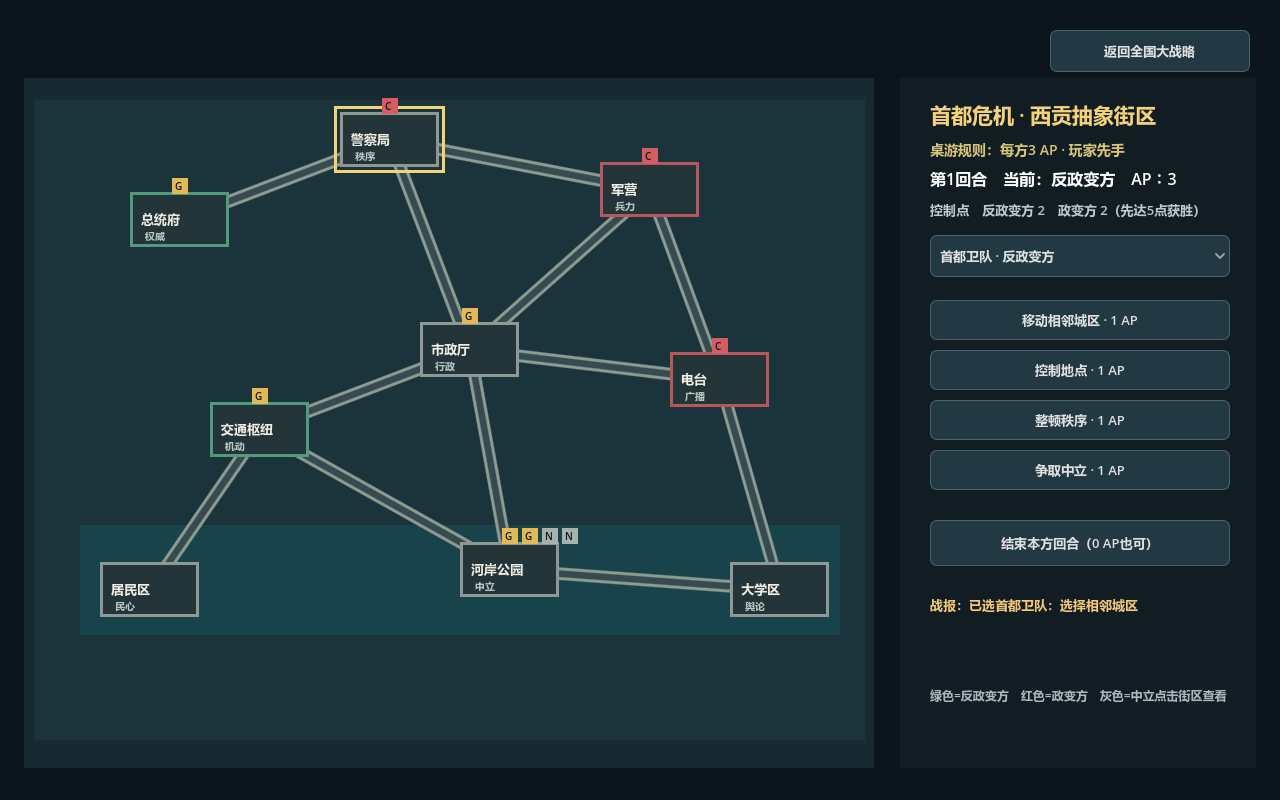
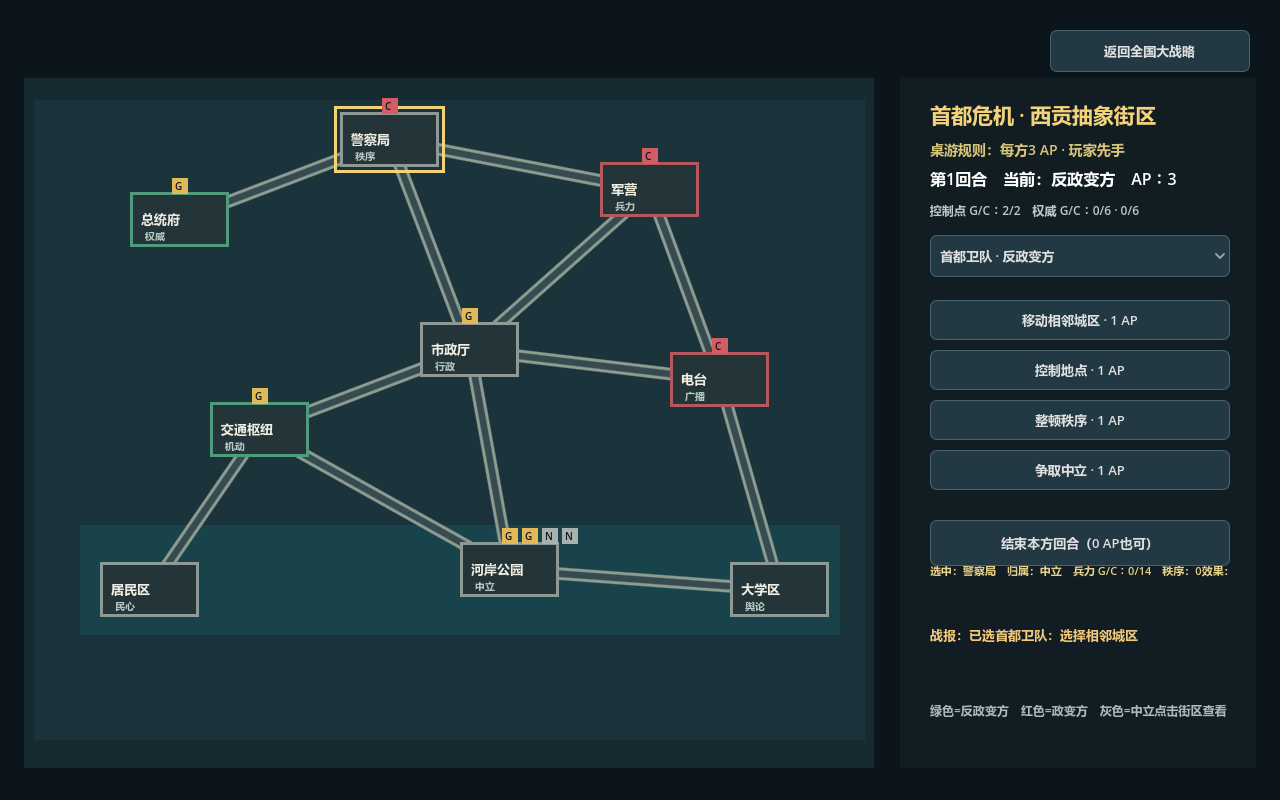
Harden capital crisis state and combat rules

diff --git a/docs/VERIFICATION.md b/docs/VERIFICATION.md
@@ -4,7 +4,7 @@
 
 运行检查：`..\GodotPortable_4.7.2\Godot_v4.7.2-stable_win64_console.exe --headless --path . --quit-after 2` 完成且无 `ERROR` 或 `SCRIPT ERROR`。治理测试：`--headless --path . --script res://tools/test_governance.gd` 输出 `governance-tests: PASS`；覆盖710地区、17°N分类、统一行动成本、快捷键与按钮、谈判冷却、三类事件双分支、资源不足保留待决、28天自动事件、跨周推进、军方底线倒台、20周成功、结束锁定和重新开始、选区 UI 更新。日期测试：`--headless --path . --script res://tools/test_simulation.gd` 输出 `simulation-tests: PASS`。
 
-治理迭代：完整加载 710 个地区；右侧 Control 面板显式显示预算、政治资本、三派支持、稳定度、选区详情、行动成本、反馈和事件选项。地图使用实际 `Control.clip_contents` 裁剪视口，填色模式由阵营、民心、叛乱驱动，源环采用安全的渲染填充路径避免三角化错误。稳定度由三派支持与南方地区民心/治安/叛乱指标共同计算。政变页可进入独立的“首都危机”城市回合，城市使用9个原创抽象街区、道路/河道和三处控制点，不宣称历史战术精确；城市页采用每方3 AP、邻接移动、地点控制/整顿/争取中立和 AI 回合。
+治理迭代：完整加载 710 个地区；右侧 Control 面板显式显示预算、政治资本、三派支持、稳定度、选区详情、行动成本、反馈和事件选项。地图使用实际 `Control.clip_contents` 裁剪视口，填色模式由阵营、民心、叛乱驱动，源环采用安全的渲染填充路径避免三角化错误。稳定度由三派支持与南方地区民心/治安/叛乱指标共同计算。政变页可进入独立的“首都危机”城市回合，城市使用9个原创抽象街区、道路/河道和三处控制点，不宣称历史战术精确；城市页采用每方3 AP、邻接移动、地点控制/整顿/争取中立和 AI 回合。城市实例活动期间，全国时间、周结算和全国军令全部锁定，返回查看不会解锁。
 
 交互实现：左键仅在 `MAP_RECT` 内处理，并使用 `Geometry2D.is_point_in_polygon` 命中实际轮廓环；地图外/侧栏不会改变选择。滚轮缩放和中键拖动共享同一坐标变换，因此命中逻辑随缩放拖动保持一致。暂停或事件待决时 `_process` 不推进；运行时按天循环，严格在第7天周结算和第28天触发事件，结束后快捷键与按钮保持无效并提供重新开始。
 
@@ -14,11 +14,11 @@
 
 来源与许可限制：`vietnam-provinces-game.json` 是工作区既有文件，本阶段仅追溯到本地文件，未能从文件元数据确认其上游来源或许可证。因此项目不宣称这些轮廓可独立再分发；只把它们作为本地原型输入，并保留来源不确定性。
 
-导出：`powershell -ExecutionPolicy Bypass -File tools\build_windows.ps1` 生成 `builds\VietnamWar1965-governance.exe`（最新 115,000,320 bytes）；本地 builds 另保留用户原有的8月 `VietnamWar1965.exe` 和 `VietnamWar1965.console.exe`。
+导出：`powershell -ExecutionPolicy Bypass -File tools\build_windows.ps1` 生成 `builds\VietnamWar1965-governance.exe`（首都危机版最新导出）；本地 builds 另保留用户原有的8月 `VietnamWar1965.exe` 和 `VietnamWar1965.console.exe`。
 
 性能验证：`--headless --path . --script res://tools/test_performance.gd` 在完整 710 地区上实测 `geometry_rebuild_ms=278.72`（主动重建成本）、缓存绘制命令 CPU 计时 P95 `28.00ms`，变换场景 CPU 计时 P95 `28.83ms`；这两个值不是旧版 FPS 对比。非 headless OpenGL Compatibility（NVIDIA GeForce RTX 3060 Laptop GPU）用 `tools/test_frame_performance.gd` 实测60个空闲帧 P50/P95 `16.67/17.53ms`，实际滚轮缩放与拖动路径60帧 P50/P95 `16.61/17.36ms`。地图现在只在加载、选择/行动或模式切换时更新 SubViewport 纹理，镜头变换只缩放/平移纹理；710 地区数据本身没有删减或降采样。
 
-上手与政变：右侧面板默认选中南方地区，分为“治理/政变”两页签；治理页提供三步引导、下一步建议、行动成本/效果和禁用原因，政变页提供10支部队选择器、首都/电台/军营三个目的地按钮、移动提示和页内反馈。新增10支全国部队（政府5、政变3、中立2）。政变测试覆盖全国冻结、反政变方权限、政变方玩家越权拒绝、中立禁止、AI调集、三处控制点不同结果、反政变胜利解锁和政变方胜利失败。首都危机测试覆盖城市邻接、3 AP 行动、非法目标、AI回合、切屏状态、全国调动绕过拒绝、城市结局写回全国和真实城市胜负路径。
+上手与政变：右侧面板默认选中南方地区，分为“治理/政变”两页签；治理页提供三步引导、下一步建议、行动成本/效果和禁用原因，政变页提供10支部队选择器、首都/电台/军营三个目的地按钮、移动提示和页内反馈。新增10支全国部队（政府5、政变3、中立2）。政变测试覆盖全国冻结、反政变方权限、政变方玩家越权拒绝、中立禁止、AI调集、三处控制点不同结果、反政变胜利解锁和政变方胜利失败。首都危机命令 `--headless --path . --script res://tools/test_capital_crisis.gd` 输出 `capital-crisis-tests: PASS`，覆盖城市邻接、3 AP 行动、非法目标、未知 action/actor/current_side、同点重复控制、敌驻军兵力+秩序防御、AI真实移动、切屏锁定、重启释放实例、全国调动绕过拒绝、城市结局写回全国，以及玩家合法控制路径和不调兵时 AI 胜利路径。
 
 公开仓库：远端为 `git@github.com:myfines/fluffy-waddle.git`，当前 `master` 已推送并以远端 HEAD 为准。由于本机 SSH 公钥认证失败，本次使用同一 GitHub 地址的一次性 HTTPS push 完成上传，origin 配置仍保持用户提供的 SSH 地址。仓库不包含未知许可的710轮廓、派生轮廓、exe、release 或 Godot缓存；干净 clone 使用许可明确的 `data/demo_regions.json` 启动，且干净 clone 治理测试通过。
 
